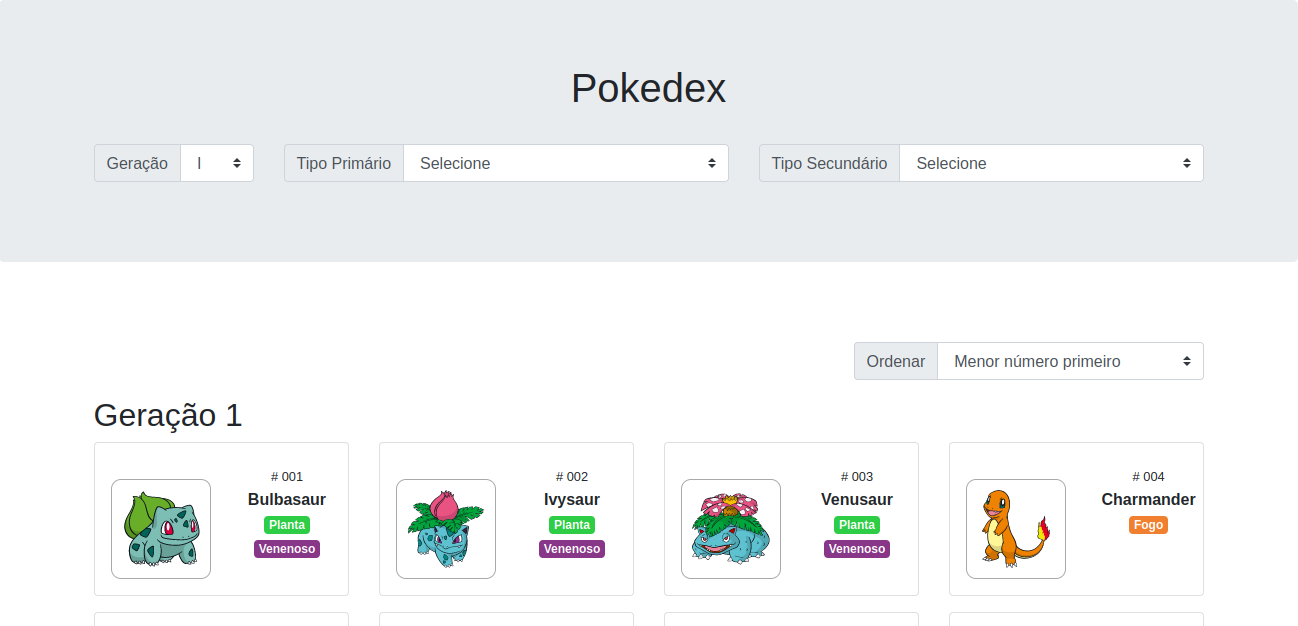
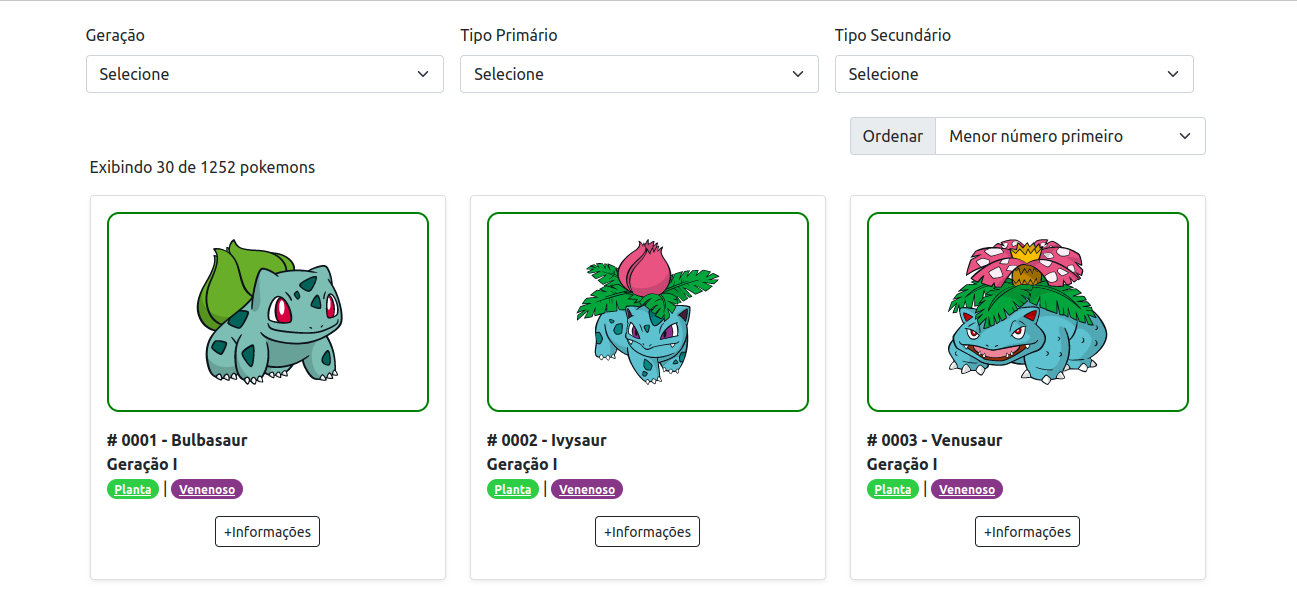
Alterando o readme e alterando as imagens

diff --git a/README.md b/README.md
@@ -5,7 +5,7 @@ O site funciona como uma Pokedéx. Ele exibe as informações dos Pokemons por g
   - Imagem
   - Número
   - Nome
-  - Tipo
+  - Tipo(s)
 
 Para obter as informações exibidas foi utilizado a API " [PokéAPI](https://pokeapi.co/).
 
@@ -15,19 +15,23 @@ O site também tem com três filtros:
 - Tipo Secundário
 
 E as informações também podem ser ordenadas:
-- menor para maior
-- maior para menor
+- Menor para maior
+- Maior para menor
 - A-Z
 - Z-A
 
 ## Tecnologias utilizadas
 **Font**
 - Bootstrap - versão 5
+
 **Back**
-- JavaScript
+- PHP
+
+**Banco de dados**
+MySql
 
 ## Telas ##
-Utilizando o filtro **Geração** "I"
+Utilizando o filtro **Geração** "II"
 ![Imagem 1](css/images/imagem1.png)
 
 Utilizando o filtro **Tipo Primário** "Inseto"
